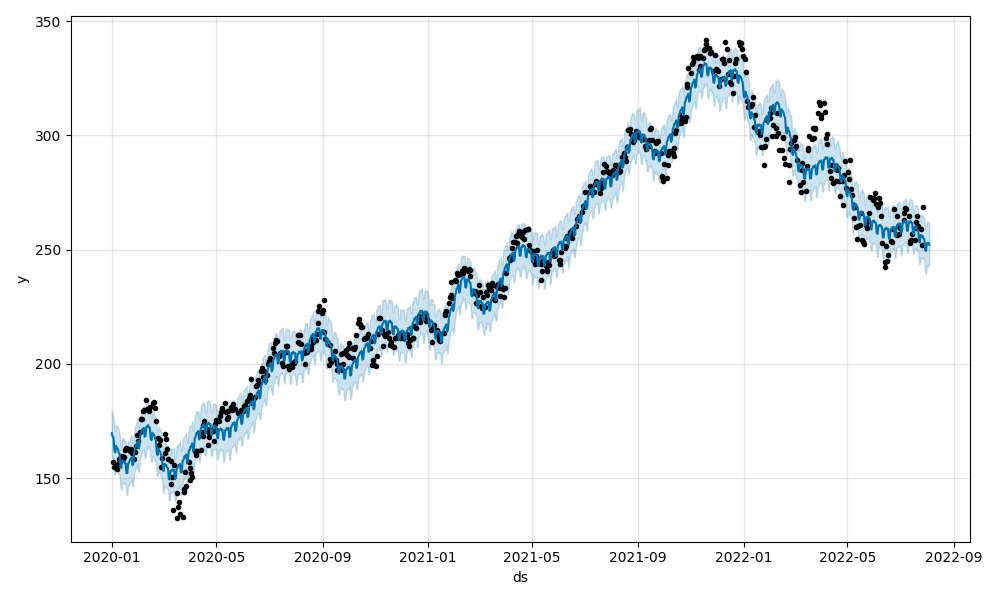
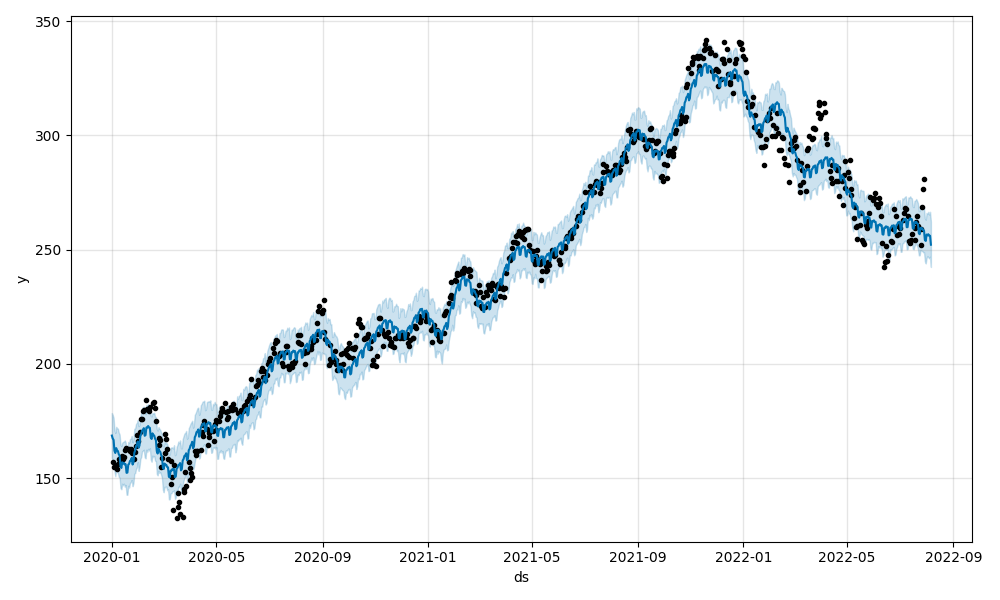
train model add tsla

diff --git a/model.py b/model.py
@@ -28,7 +28,7 @@ def train(ticker="TSLA"):
     joblib.dump(model, Path(BASE_DIR).joinpath(f"{ticker}.joblib"))
 
 
-def predict(ticker="MSFT", days=7):
+def predict(ticker="TSLA", days=7):
     model_file = Path(BASE_DIR).joinpath(f"{ticker}.joblib")
     if not model_file.exists():
         return False
@@ -55,13 +55,13 @@ def convert(prediction_list):
     return output
 
 
-#if __name__ == "__main__":
- #   parser = argparse.ArgumentParser(description='Predict')
- #   parser.add_argument('--ticker', type=str, default='MSFT', help='Stock Ticker')
- #   parser.add_argument('--days', type=int, default=7, help='Number of days to predict')
- #   args = parser.parse_args()
+# if __name__ == "__main__":
+#     parser = argparse.ArgumentParser(description='Predict')
+#     parser.add_argument('--ticker', type=str, default='TSLA', help='Stock Ticker')
+#     parser.add_argument('--days', type=int, default=7, help='Number of days to predict')
+#     args = parser.parse_args()
     
- #  train(args.ticker)
-#  prediction_list = predict(ticker=args.ticker, days=args.days)
- #   output = convert(prediction_list)
-  #  print(output)
+#     train(args.ticker)
+#     prediction_list = predict(ticker=args.ticker, days=args.days)
+#     output = convert(prediction_list)
+#     print(output)

diff --git a/main.py b/main.py
@@ -35,3 +35,6 @@ def get_prediction(payload: StockIn):
         "days": days,
         "forecast": convert(prediction_list)}
     return response_object
+
+# if __name__ == "__main__":
+#     uvicorn.run(app, host="0.0.0.0", port=8000)

diff --git a/ping.py b/ping.py
@@ -1,0 +1,6 @@
+from fastapi import FastAPI
+app = FastAPI()
+
+@app.get("/ping")
+def pong():
+    return {"ping": "pong!"}
